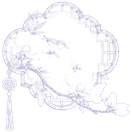
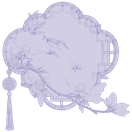
v104: 正提笔改成输入条上方占一行不再挡气泡；加号里语音通话、听歌换成古风图标（传音·如意佩、听曲·竹瓶），去掉方块白底，另起一页图标调深

diff --git a/v102.js b/v102.js
@@ -9,7 +9,7 @@ try{
   var R=document.documentElement;
   var ICON={btnPlus:'zhuchuang',btnEmo:'meiping',btnPic:'niaolong',btnSend:'pingfeng'};
   function tone(){var t=R.dataset.gt;return t==='zi'||t==='qing'?t:'fen'}
-  function src(n){return 'chat/ic/'+n+'_'+tone()+'.png?v=102'}
+  function src(n){return 'chat/ic/'+n+'_'+tone()+'.png?v=104'}
 
   // ── 顶栏、底栏底图：插一层真的 div，不占用别处已经在用的 ::before ──
   function layer(host,cls){
@@ -120,3 +120,28 @@ try{
 })();
 
 }catch(e){console.error("[zika] v102.js",e)}
+
+try{
+// v104：加号里的格子换古风——传音（如意佩）、听曲（竹瓶），和另起一页一样按设色染色
+(function(){
+  var R=document.documentElement;
+  function tone(){var t=R.dataset.gt;return t==='zi'||t==='qing'?t:'fen'}
+  function src(n){return 'chat/ic/'+n+'_'+tone()+'.png?v=104'}
+  var MAP={'语音通话':['ruyi','传音'],'传音':['ruyi','传音'],'听歌':['zhuping','听曲'],'听曲':['zhuping','听曲']};
+  function paint(){
+    var pp=document.getElementById('plusp');if(!pp)return;
+    pp.querySelectorAll('button').forEach(function(b){
+      var sp=b.querySelector('span'),i=b.querySelector('i');if(!sp||!i)return;
+      var k=b.dataset.gfi||sp.textContent.trim(),m=MAP[k];if(!m)return;
+      b.dataset.gfi=m[1];if(sp.textContent!==m[1])sp.textContent=m[1];
+      var im=i.querySelector('img.gfic2');
+      if(!im){i.innerHTML='';im=document.createElement('img');im.className='gfic2';im.alt='';i.appendChild(im)}
+      var s=src(m[0]);if(im.getAttribute('src')!==s)im.setAttribute('src',s);
+    });
+    var h=document.querySelector('#gfNew img');if(h)h.setAttribute('src',src('haitang'));
+  }
+  paint();
+  new MutationObserver(paint).observe(R,{attributes:true,attributeFilter:['data-gt']});
+  var p=document.getElementById('btnPlus');if(p)p.addEventListener('click',paint);
+})();
+}catch(e){console.error("[zika] v104",e)}

diff --git a/v102.css b/v102.css
@@ -44,3 +44,14 @@ html[data-gt] body .pmeta .tm{order:1;color:var(--sub)!important}
 html[data-gt] body .pmeta .rd2{order:2;color:var(--accent)!important;font-family:inherit!important}
 html[data-gt] body .pmeta .fv{order:3}
 html[data-gt] body .card .head .rd{color:var(--accent)!important;font-family:"Songti SC","STSong","Noto Serif SC",serif!important}
+
+/* v104：正提笔不再浮在气泡上面，在输入条上方占一行，把气泡区顶上去 */
+html[data-gt] body .chat-foot #typing{position:relative!important;left:auto!important;bottom:auto!important;display:flex!important;width:auto!important;max-width:none!important;margin:0 0 6px!important;padding:2px 4px!important;background:none!important;border:0!important;border-radius:0!important;box-shadow:none!important;backdrop-filter:none!important;-webkit-backdrop-filter:none!important;font-family:"Songti SC","STSong","Noto Serif SC",serif!important;font-size:12px!important;color:var(--sub)!important}
+html[data-gt] body .chat-foot #typing[hidden]{display:none!important}
+html[data-gt] body .chat-foot #typing .ty-av{display:none!important}
+html[data-gt] body .chat-foot #typing i{background:var(--accent)!important}
+
+/* 加号里的格子：去掉方块底，直接放古风图标，字改宋体 */
+html[data-gt] body .plusp button i{width:50px!important;height:50px!important;background:none!important;border:0!important;border-radius:0!important;box-shadow:none!important}
+html[data-gt] body .plusp button i img{width:48px!important;height:48px!important;object-fit:contain;display:block;filter:drop-shadow(0 1px 1.5px rgba(60,40,50,.2))}
+html[data-gt] body .plusp button span{font-family:"Songti SC","STSong","Noto Serif SC",serif!important;letter-spacing:.12em!important}

diff --git a/index.html b/index.html
@@ -24,7 +24,7 @@
 <link rel="stylesheet" href="https://cdn.jsdelivr.net/npm/@fontsource/cormorant-garamond@5.2.5/400.css">
 <link rel="stylesheet" href="v99.css?v=100">
 <link rel="stylesheet" href="v101.css?v=101">
-<link rel="stylesheet" href="v102.css?v=103">
+<link rel="stylesheet" href="v102.css?v=104">
 </head>
 <body>
 <div id="gfsp" role="button" aria-label="进入江亭晚">
@@ -115,7 +115,7 @@
 <script>
 // 先把图片大仓打开，再跑 app.js；media.js 要是没加载上就直接按顺序跑，页面照旧能用
 (function(){
-  var list=['app.js?v=89','v89.js?v=90','v92.js?v=92','v93.js?v=93','v99.js?v=101','v101.js?v=101','v102.js?v=102'];
+  var list=['app.js?v=89','v89.js?v=90','v92.js?v=92','v93.js?v=93','v99.js?v=101','v101.js?v=101','v102.js?v=104'];
   if(window.ZikaMedia&&ZikaMedia.boot){ZikaMedia.boot(list);return}
   (function next(i){
     if(i>=list.length)return;
